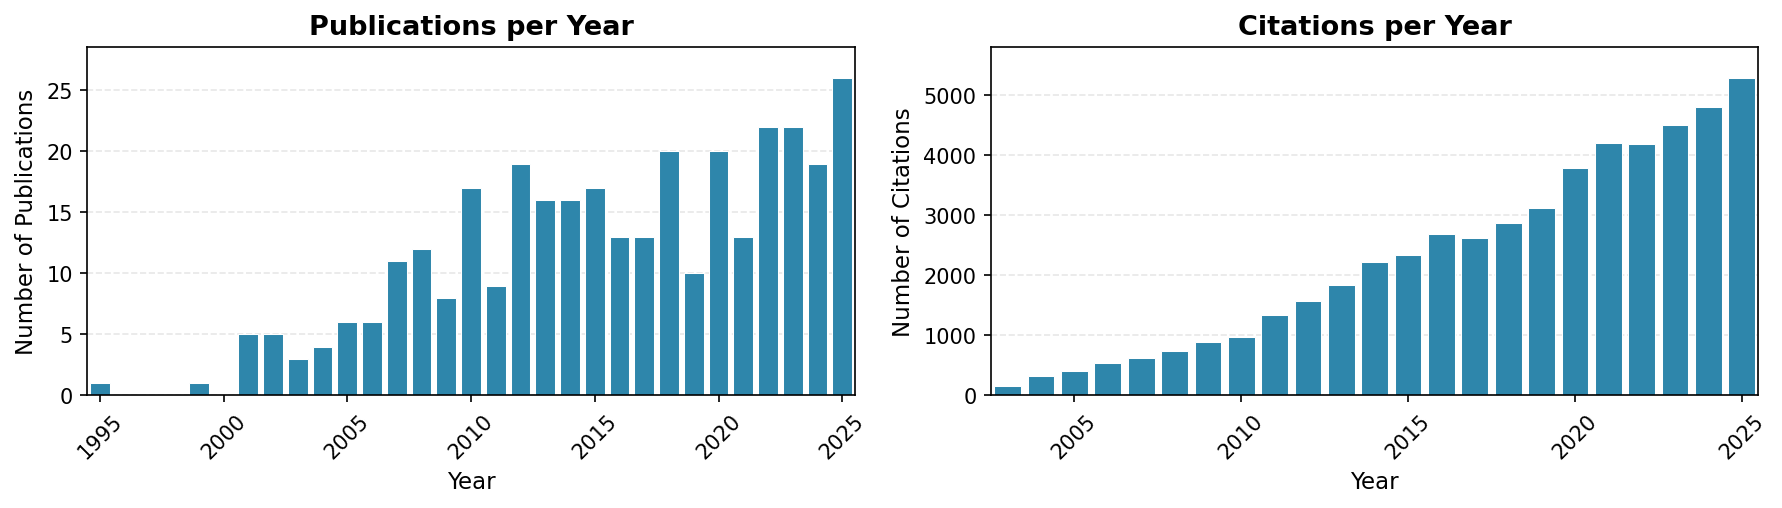
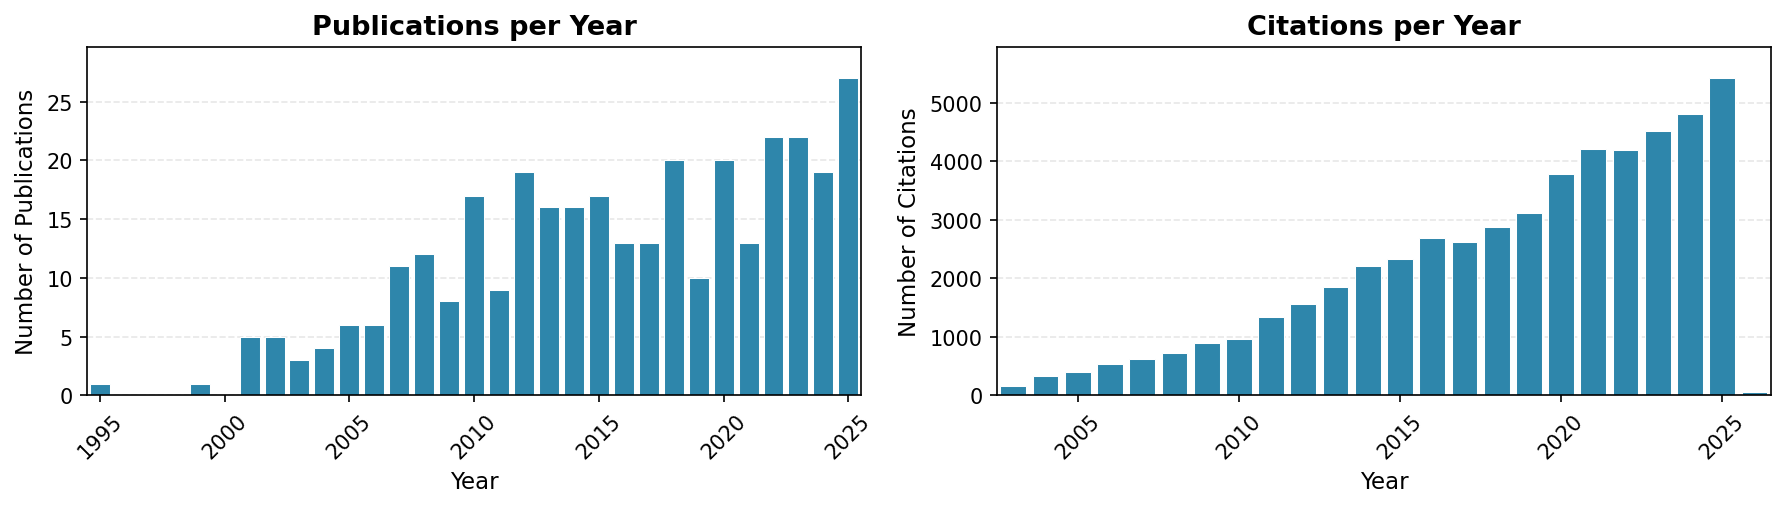
Add Skyline Webinar 27 and update publication metrics
Added a new post for Skyline Webinar 27 and updated publication and citation metrics across the site. Updated the publications list, event counts, and resource links to reflect new publications, webinars, and events. Also made minor formatting and content corrections in resources and script files.

diff --git a/scripts/fetch_datasets.py b/scripts/fetch_datasets.py
@@ -778,17 +778,17 @@ def update_resources_page(datasets_content):
 
     # Build the new datasets section
     new_datasets_section = f'''<div id="datasets" class="tab-content">
-    <div markdown="1">
+<div markdown="1">
 
 {datasets_content}
 
 </div>
-  </div>
+</div>
 
 '''
 
     # Replace the section
-    content = content[:datasets_start] + "  " + new_datasets_section + content[section_end:]
+    content = content[:datasets_start] + new_datasets_section + content[section_end:]
     print("Updated Datasets section.")
 
     # Write the updated content

diff --git a/pages/resources.md b/pages/resources.md
@@ -91,7 +91,7 @@ Example publications describing the Stellar from the MacCoss lab include:
 - **External Tools**: Skyline has an external tool framework. We have a [tool store](http://skyline.ms/tools.url) with 20 tools currently available.
 - **Source Code** is available as part of the [Proteowizard project](https://github.com/ProteoWizard/pwiz).
 - **Original Publication** MacLean et al, [Skyline: an open source document editor for creating and analyzing targeted proteomics experiments](https://academic.oup.com/bioinformatics/article/26/7/966/212410), *Bioinformatics* 2010
-- **Cited:** 5,226 times
+- **Cited:** 5,239 times
 
 ### ![Proteowizard](../assets/images/logos/proteowizard-logo.jpg "Proteowizard")
 **Widely used software tools and libraries for mass spectrometry data analysis.**
@@ -99,7 +99,7 @@ Example publications describing the Stellar from the MacCoss lab include:
 - **Download and Documentation:** [https://proteowizard.sourceforge.io/](https://proteowizard.sourceforge.io/)
 - **Source Code:** Available on [Github](https://github.com/ProteoWizard/pwiz) and licensed under Apache 2.0.
 - **Original Publication:** Chambers et al, [A cross-platform toolkit for mass spectrometry and proteomics](https://www.nature.com/articles/nbt.2377), *Nature Biotechnology* 2012
-- **Cited:** 4,296 times
+- **Cited:** 4,317 times
 
 ### ![Panorama](../assets/images/logos/panorama_logo_h_onwhite_border.png "Panorama")
 **Web-based repository for Skyline documents and colaboration**
@@ -145,12 +145,11 @@ Example publications describing the Stellar from the MacCoss lab include:
 - **Download and Documentation** are available on the [Percolator website](http://percolator.ms/). Percolator is also part of the [Crux project](https://crux.ms/).
 - **Source Code** is available on [GitHub](https://github.com/crux-toolkit/crux-toolkit) under an Apache 2.0 license.
 
-
 </div>
 </div>
 
-                  <div id="datasets" class="tab-content">
-    <div markdown="1">
+<div id="datasets" class="tab-content">
+<div markdown="1">
 
 ## Public Datasets on [Panorama Public](http://panoramaweb.org/public.url)
 
@@ -158,7 +157,7 @@ Example publications describing the Stellar from the MacCoss lab include:
 
 **[Browse all MacCoss Lab datasets on Panorama Public →](https://panoramaweb.org/project/Panorama%20Public/begin.view#searchTab:expSearchPanel?Targeted%20MS%20Experiment%20List.authors~containsoneof=MacCoss&)**
 
-*Last updated: December 22, 2025 — 57 datasets available*
+*Last updated: January 06, 2026 — 57 datasets available*
 
 ### 2025
 
@@ -280,7 +279,7 @@ collision cross-section database</a></td><td></td></tr>
 
 ## Educational Materials
 
-*Last updated: December 22, 2025 — 27 Skyline tutorials available*
+*Last updated: January 06, 2026 — 27 Skyline tutorials available*
 
 ### UWPR Mass Spectrometry Resources
 
@@ -384,39 +383,42 @@ collision cross-section database</a></td><td></td></tr>
 
 </div>
   </div>
+
+
   <div id="support" class="tab-content">
     <div markdown="1">
 
 ## Support & Training
 
-*Last updated: December 22, 2025 — 2 upcoming events, 101 past events, 26 webinars*
+*Last updated: January 06, 2026 — 0 upcoming events, 103 past events, 27 webinars*
 
 ### Forums and Discussion
-- [Skyline Support Board](http://skyline.ms/support.url)
-- [Panorama Support Board](https://panoramaweb.org/home/support/project-begin.view)
+- [Skyline Support Board](https://skyline.ms/forum)
+- [Panorama Support Board](https://panoramaweb.org/forum)
 - **[University of Washington Proteomics Listserv](https://mailman23.u.washington.edu/mailman/listinfo/proteomics)** - If you are at UW and doing proteomics you should join this list.
 
 ### Upcoming Events
 
-- **[2026 ISAS Dortmund Skyline Training Course](https://www.isas.de/en/events/skyline-kurs-2026)** (March 2-5, 2026)
-- **[May Institute - Computation and statistics for mass spectrometry and proteomics](https://computationalproteomics.khoury.northeastern.edu/)**
+*Check [Skyline Events](https://skyline.ms/home/software/Skyline/events/project-begin.view) for upcoming courses and events.*
 
 ### Skyline Webinar Series
 
 The Skyline Team presents tutorial webinars designed to help you get the most out of Skyline targeted proteomics software. Each ~90 minute webinar includes Q&A, presentations, and tutorial data.
 
 **Recent Webinars (2025):**
+- [#27: Peak Boundary Imputation for DIA Data](https://skyline.ms/project/home/software/Skyline/events/2025%20Webinars/Webinar%2027/begin.view?) (Dec 2025)
 - [#26: DIA with FragPipe, DIA-NN and Skyline](https://skyline.ms/project/home/software/Skyline/events/2025%20Webinars/Webinar%2026/begin.view?) (Sept 2025)
 - [#25: Comparing Acquisition Methods](https://skyline.ms/project/home/software/Skyline/events/2025%20Webinars/Webinar%2025/begin.view?) (Jan 2025)
 
-*[View all 26 webinars](https://skyline.ms/home/software/Skyline/wiki-page.view?name=webinars)*
+*[View all 27 webinars](https://skyline.ms/home/software/Skyline/wiki-page.view?name=webinars)*
 
 ### Past Events by Year
 
 <div class="events-container">
 
 <div class="event-year-navigation">
-<button class="active" onclick="showEventYear(2025)">2025 (7)</button>
+<button class="active" onclick="showEventYear(2026)">2026 (2)</button>
+<button onclick="showEventYear(2025)">2025 (7)</button>
 <button onclick="showEventYear(2024)">2024 (8)</button>
 <button onclick="showEventYear(2023)">2023 (8)</button>
 <button onclick="showEventYear(2022)">2022 (5)</button>
@@ -432,7 +434,15 @@ The Skyline Team presents tutorial webinars designed to help you get the most ou
 </div>
 
 <div class="event-year-content-area">
-<div id="events-2025" style="display: block;">
+<div id="events-2026" style="display: block;">
+<h4>2026 Events</h4>
+<ul>
+<li><a href="https://www.isas.de/en/events/skyline-kurs-2026">2026 ISAS Dortmund Skyline Training Course</a> - Dortmund (March 2-5, 2026)</li>
+<li><a href="https://computationalproteomics.khoury.northeastern.edu/">May Institute - Computation and statistics for mass spectrometry and proteomics</a> - Northeastern University</li>
+</ul>
+</div>
+
+<div id="events-2025" style="display: none;">
 <h4>2025 Events</h4>
 <ul>
 <li><a href="https://skyline.ms/home/software/Skyline/events/2025-10%20Skyline%20Online/project-begin.view">Skyline Online 2025</a> (October 7-17, 2025)</li>

diff --git a/pages/publications.md b/pages/publications.md
@@ -10,20 +10,20 @@ View our complete publication list on [Google Scholar](https://scholar.google.co
 
 ## Publication Metrics
 
-- **Total Publications**: 334 (315 peer-reviewed + 19 preprints)
-- **Total Citations**: 52,451 ([Google Scholar](https://scholar.google.com/citations?user=icweOB0AAAAJ&hl=en))
-- **h-index**: 103
-- **Most Cited Paper**: "Skyline: an open source document editor for creating and analyzing targeted proteomics experiments" (5,226 citations)
+- **Total Publications**: 335 (316 peer-reviewed + 19 preprints)
+- **Total Citations**: 52,646 ([Google Scholar](https://scholar.google.com/citations?user=icweOB0AAAAJ&hl=en))
+- **h-index**: 104
+- **Most Cited Paper**: "Skyline: an open source document editor for creating and analyzing targeted proteomics experiments" (5,239 citations)
 
 ![Publication and Citation Metrics](../assets/images/publication-metrics.png)
 
-*Last updated: December 22, 2025 — 334 publications*
+*Last updated: January 06, 2026 — 335 publications*
 
 ## Publications by Year
 
 <div class="publications-container">
 <div class="year-navigation">
-<button class="year-button active" onclick="showYear(event, '2025')">2025 (26)</button>
+<button class="year-button active" onclick="showYear(event, '2025')">2025 (27)</button>
 <button class="year-button" onclick="showYear(event, '2024')">2024 (19)</button>
 <button class="year-button" onclick="showYear(event, '2023')">2023 (22)</button>
 <button class="year-button" onclick="showYear(event, '2022')">2022 (22)</button>
@@ -56,6 +56,11 @@ View our complete publication list on [Google Scholar](https://scholar.google.co
 <div id="year-2025" class="year-content active" markdown="1">
 
 ### 2025
+
+**Improvements to Casanovo, a Deep Learning De Novo Peptide Sequencer**
+Straub G, Ananth V, Fondrie WE, Hsu C, Klaproth-Andrade D, Pominova M, Riffle M, Sanders J, Wen B, Xu L, Yilmaz M, MacCoss MJ, Oh S, Bittremieux W, Noble WS
+*Journal of proteome research* 2025 Dec
+[PubMed](https://pubmed.ncbi.nlm.nih.gov/41468557/) | [DOI](https://doi.org/10.1021/acs.jproteome.5c00706)
 
 **Genetic variation in the Nr1d1 transcription factor binding site shapes metabolism-related protein networks associated with cognitive resilience in an Alzheimer's disease mouse reference panel**
 Chen Y, Stevenson TK, Cao Y, Fish LA, Robbins JE, Merrihew GE, Park J, Hohman TJ, MacCoss MJ, Kaczorowski CC

diff --git a/_posts/2025-12-11-skyline-webinar-27.md b/_posts/2025-12-11-skyline-webinar-27.md
@@ -1,0 +1,12 @@
+---
+layout: post
+title: "Skyline Webinar 27: Peak Boundary Imputation for DIA Data"
+date: 2025-12-11
+categories: [webinar, skyline, DIA]
+---
+
+We hosted our third Skyline webinar of 2025 with over 153 participants joining Michael MacCoss and Nick Shulman on December 11th. The webinar introduced the newest Skyline tutorial on Peak Boundary Imputation for DIA Data.
+
+Mike presented a case for imputing boundaries for missing DIA data, and Nick demonstrated the technique using Skyline. The session concluded with a great Q&A that generated many excellent questions and will lead to more discussion in a future webinar.
+
+The webinar recording, slides, tutorial, and data set are available on the [Skyline Webinar 27 page](https://skyline.ms/project/home/software/Skyline/events/2025%20Webinars/Webinar%2027/begin.view).
